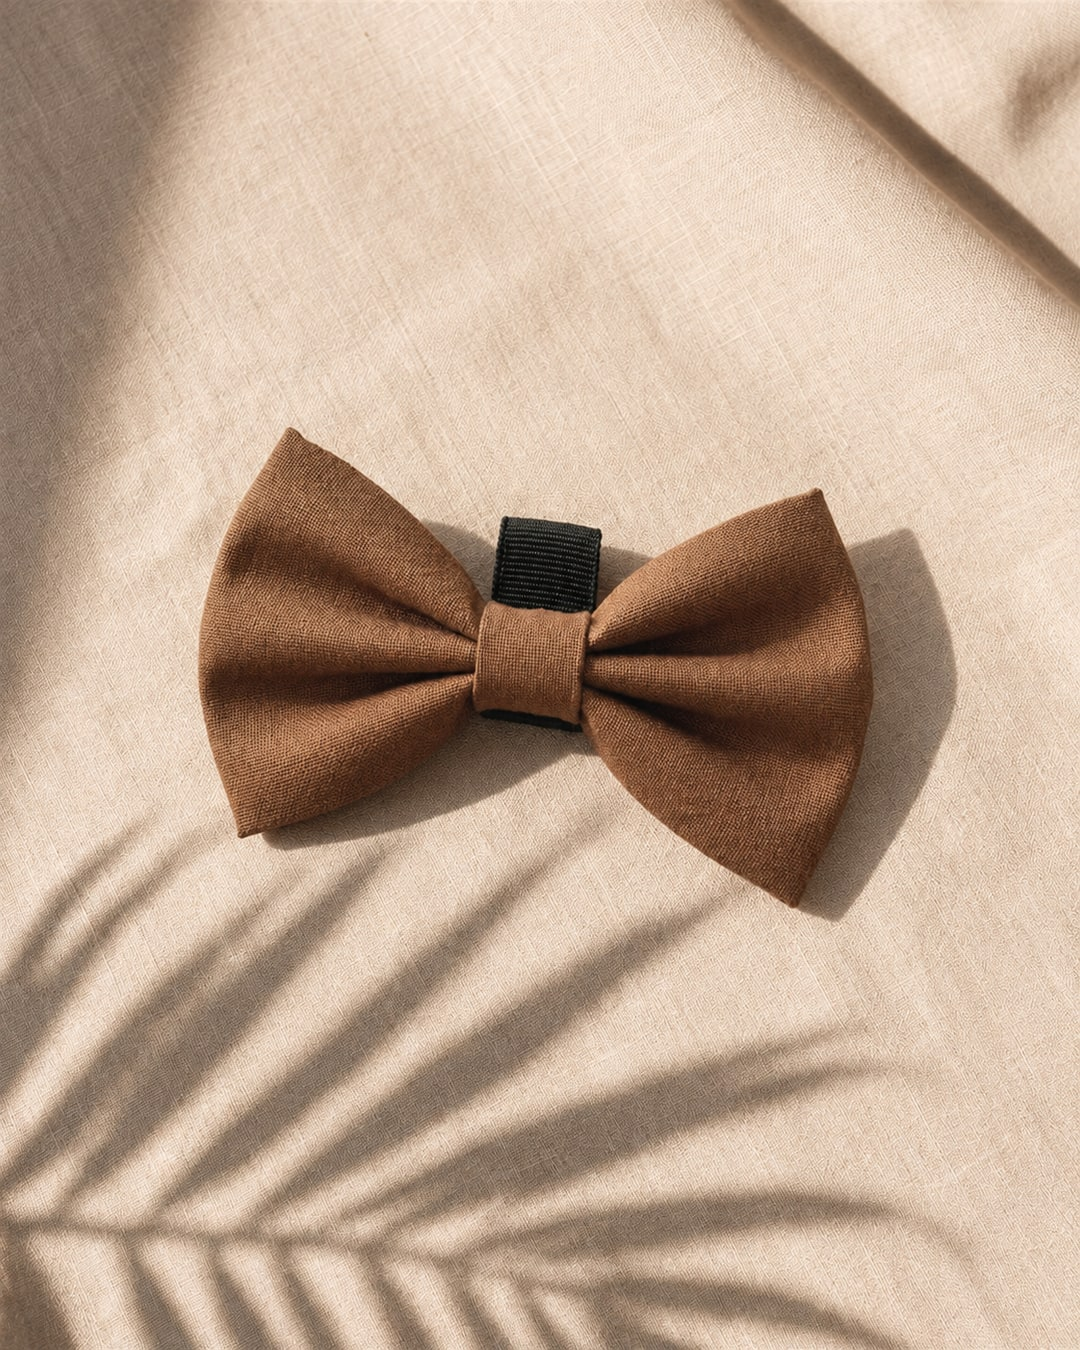
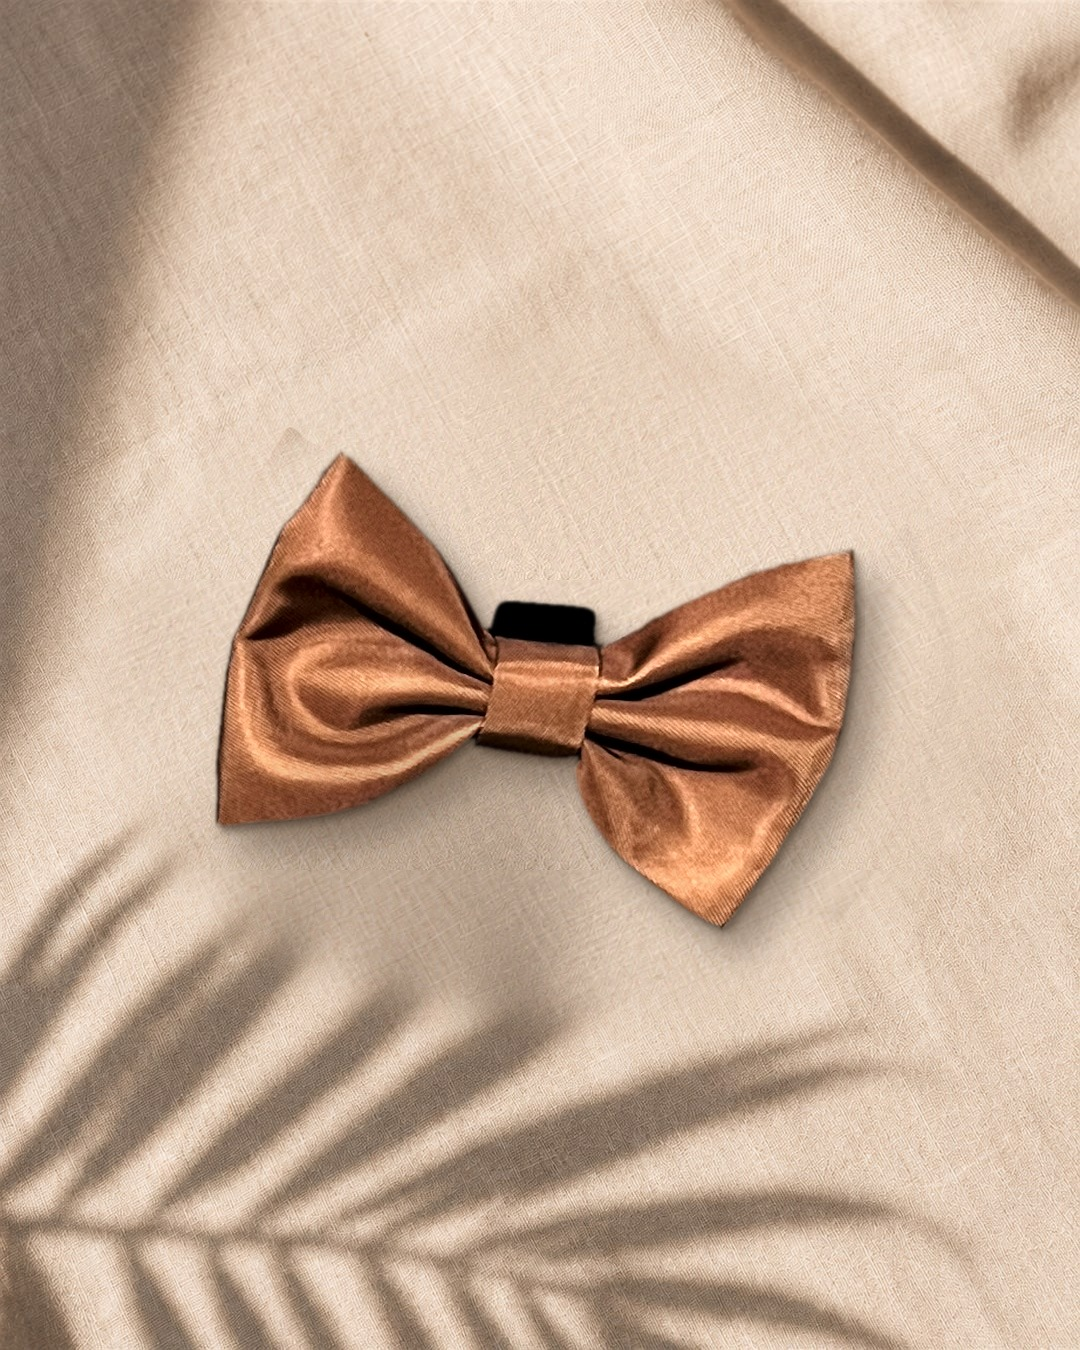
sanzo-web: moño real en Individuales y 3x2 en chapitas
Claude-Session: https://claude.ai/code/session_01P6hnxyPJoCWf1hADAnftqP

Changed region(s): [[0.1528, 0.3111, 0.8861, 0.7778], [0.1222, 0.4667, 0.1528, 0.4978]]

diff --git a/sanzo-web/lib/carrito.ts b/sanzo-web/lib/carrito.ts
@@ -1,4 +1,4 @@
-import { getProducto, ofertaChapita, type Producto } from "@/data/products";
+import { chapita, getProducto, ofertaChapita, type Producto } from "@/data/products";
 import { esChapita, llevaChapita, normalizarOpcionChapita, normalizarOpcionComboChapita } from "./chapita";
 import { envioInfo, zonaPorCP, zonaPorProvincia, type TipoEntrega, type ZonaEnvio } from "@/data/envios";
 import { clavePersonalizacion, normalizarPersonalizacion, precioPersonalizacion, type Personalizacion } from "./personalizacion";
@@ -119,6 +119,8 @@ export function calcularTotales(lineas: LineaCarrito[], ubicacion: Ubicacion): T
   for (const l of resueltas) porProducto[l.productoId] = (porProducto[l.productoId] ?? 0) + l.cantidad;
   const combosEnCarrito = resueltas.filter((l) => l.producto.tipo === "combo" || l.producto.tipo === "kit").map((l) => l.productoId);
   const { descuentos, sugerencias } = calcularPromos(porProducto, combosEnCarrito);
+  const regalo = chapitasDeRegalo(resueltas);
+  if (regalo) descuentos.push(regalo);
   const ahorro = descuentos.reduce((s, d) => s + d.monto, 0);
   // Kit armado con piezas sueltas: viaja gratis igual que el kit.
   if (descuentos.some((d) => d.envioGratis)) contieneKit = true;
@@ -142,6 +144,26 @@ export function calcularTotales(lineas: LineaCarrito[], ubicacion: Ubicacion): T
 
   const total = productos + (envio.tipo === "precio" ? envio.monto : 0);
   return { lineas: resueltas, unidades, subtotal, descuentos, ahorro, sugerencias, envio, total, contieneKit, faltaParaGratis };
+}
+
+/**
+ * 3x2 en chapitas: cada 3 chapitas del carrito (cualquier forma y grabado), la más barata va de regalo.
+ * Se ordenan de la más cara a la más barata y se regala la tercera de cada grupo de tres.
+ */
+function chapitasDeRegalo(lineas: LineaResuelta[]): DescuentoAplicado | null {
+  const promo = ofertaChapita.tresPorDos;
+  if (!promo.activa) return null;
+  const precios = lineas
+    .filter((l) => esChapita(l.productoId))
+    .flatMap((l) => Array<number>(l.cantidad).fill(l.unitario))
+    .sort((a, b) => b - a);
+  const monto = precios.filter((_, i) => i % 3 === 2).reduce((s, p) => s + p, 0);
+  return monto > 0 ? { promoId: "chapitas-3x2", texto: promo.texto, monto, piezas: [chapita.id], envioGratis: false } : null;
+}
+
+/** Cuántas chapitas sueltas hay en el carrito (para avisar cuando falta una para el 3x2). */
+export function chapitasEnCarrito(lineas: LineaResuelta[]) {
+  return lineas.filter((l) => esChapita(l.productoId)).reduce((s, l) => s + l.cantidad, 0);
 }
 
 /** Combos del carrito que entran enteros en `destino` (más chicos que él), sin pisarse entre sí. */

diff --git a/sanzo-web/components/carrito/CarritoDrawer.tsx b/sanzo-web/components/carrito/CarritoDrawer.tsx
@@ -11,8 +11,9 @@ import { esPersonalizable } from "@/lib/personalizacion";
 import { ImagenProducto } from "../ImagenProducto";
 import { IconoCerrar, IconoMas, IconoMenos } from "../Iconos";
 import { detalleEnvio, formatearPrecio, textoEnvio } from "@/lib/formato";
-import { MAX_CANTIDAD } from "@/lib/carrito";
+import { chapitasEnCarrito, MAX_CANTIDAD } from "@/lib/carrito";
 import { textoOpcion } from "@/lib/combos";
+import { ofertaChapita } from "@/data/products";
 import { esChapita, fotoDeLinea } from "@/lib/chapita";
 import { textoPersonalizacion } from "@/lib/personalizacion";
 
@@ -33,6 +34,9 @@ export function CarritoDrawer() {
       sugerenciaDe.set(l.key, s);
     }
   }
+  // 3x2 en chapitas: con 2 (o 5, 8…) avisa en la primera chapita que la próxima es de regalo.
+  const primeraChapita = lineas.find((l) => esChapita(l.productoId))?.key;
+  const faltaUnaChapita = ofertaChapita.tresPorDos.activa && chapitasEnCarrito(lineas) % 3 === 2;
   const enCombo = (id: string) => descuentos.find((d) => d.piezas.includes(id))?.texto.replace(/ × \d+$/, "");
 
   useEffect(() => {
@@ -107,6 +111,9 @@ export function CarritoDrawer() {
                           <p className="mt-1 inline-block rounded-full bg-tinta px-2 py-0.5 text-[10px] uppercase tracking-[0.14em] text-crema">
                             {enCombo(l.productoId)}
                           </p>
+                        )}
+                        {faltaUnaChapita && l.key === primeraChapita && (
+                          <p className="mt-1 text-[13px] text-marron">{ofertaChapita.tresPorDos.falta}</p>
                         )}
                         {esPersonalizable(l.producto) ? (
                           <div className="mt-1.5">

diff --git a/sanzo-web/data/products.ts b/sanzo-web/data/products.ts
@@ -777,7 +777,7 @@ export const chapita: Producto = {
   id: "chapita",
   nombre: "Chapita personalizada",
   tipo: "individual",
-  descripcion: "Grabada con láser, con su nombre y tu teléfono.",
+  descripcion: "Grabada con láser, con su nombre y tu teléfono. Llevando 2, la tercera te la regalamos.",
   incluye: [],
   precio: 8000,
   miniatura: "/productos/piezas/chapita.jpg",
@@ -804,6 +804,16 @@ export const ofertaChapita = {
   cartelPrevia: "Sumala a tu compra",
   cartelTitulo: "Su chapita, grabada",
   cartelTexto: "Su nombre, tu teléfono o su carita. Grabada con láser, en la forma que elijas.",
+  /** Promo de chapitas: cada 3 en el carrito, la más barata va de regalo (lib/carrito.ts). */
+  tresPorDos: {
+    activa: true,
+    /** Línea del descuento en el carrito y el checkout. */
+    texto: "3x2 en chapitas",
+    /** Cartel y ficha de la chapita. */
+    aviso: "Llevando 2, la tercera te la regalamos.",
+    /** Debajo de la chapita en el carrito, cuando le falta una para el regalo. */
+    falta: "Sumá una más y te la regalamos.",
+  },
   cartelAlt: "¿Le sumás una chapita personalizada? Grabá el nombre y el teléfono de tu perro. Por solo $6.000.",
   agregar: "Agregar",
   titulo: "Personalizá su chapita",

diff --git a/sanzo-web/components/carrito/OfertaChapita.tsx b/sanzo-web/components/carrito/OfertaChapita.tsx
@@ -139,6 +139,9 @@ export function OfertaChapita({ abierta, onSumar, onNo, modo = "oferta" }: Props
                 <s className="text-[14px] text-tinta/45">{formatearPrecio(chapita.precio)}</s>
               )}
             </p>
+            {oferta.tresPorDos.activa && (
+              <p className="mt-2 text-[12px] uppercase tracking-[0.16em] text-marron">{oferta.tresPorDos.aviso}</p>
+            )}
             <button type="button" onClick={() => setPaso("personalizar")} className="btn-primario mt-5 w-full py-4 text-sm">
               {oferta.agregar}
             </button>

diff --git a/sanzo-web/MEJORAS.md b/sanzo-web/MEJORAS.md
@@ -407,3 +407,7 @@ Parche de cuerina recortado y grabado con láser, pegado (liso). Todo editable e
 ## 2026-10-30 · Círculos de piezas: crema liso (Santi)
 - Santi eligió entre 6 opciones: **crema liso, sin sombra ni borde**, en todos los círculos (las 6 piezas, gorra, piluso y chapita). Fondo #F8F3EC: solo se recoloreó el fondo de cada foto. El de la chapita se armó con los recortes nuevos en acero.
 - "Kala" del huesito subido (estaba bajo).
+
+## 2026-10-30 — Moño real y 3x2 en chapitas
+- Moño: la foto de Individuales y el círculo salen del moño real (IMG_9746 de "articulos reales" en el Drive), recortado y puesto sobre el fondo sábana de las otras piezas, con el tono del collar. Las fotos viejas del moño (IA) quedan fuera.
+- 3x2 en chapitas (`ofertaChapita.tresPorDos`): cada 3 chapitas en el carrito, la más barata va de regalo. Se ve como descuento en el carrito y el checkout, en el cartel ("Llevando 2, la tercera te la regalamos") y, con 2 en el carrito, debajo de la chapita ("Sumá una más y te la regalamos").
